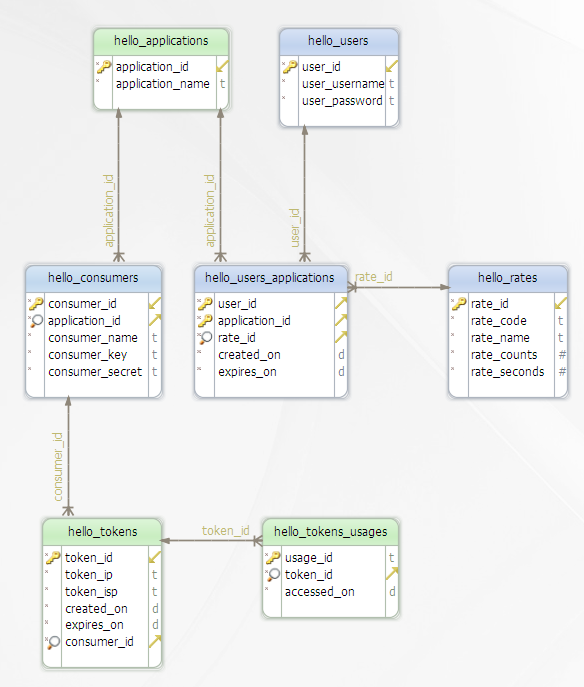
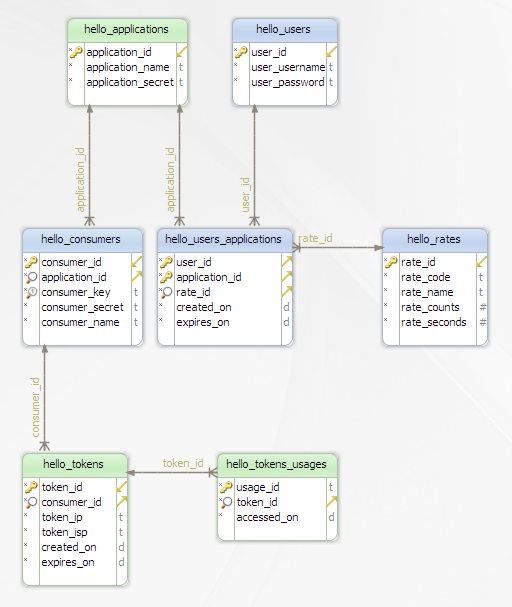
cleanup and docs

Changed region(s): [[0.0312, 0.0297, 1.0, 0.9786]]

diff --git a/src/public_html/index.php b/src/public_html/index.php
@@ -1,6 +1,1 @@
 <?php
-namespace front;
-require_once("../libraries/inc.config.php");
-
-$token = $_POST["token"]??"";
-print_r($_POST); die();

diff --git a/readme.md b/readme.md
@@ -2,14 +2,15 @@
 
 Creates a token for registered API Consumers for first time use.
 
-Required $_POST Parameters:
+Application status: Work in progress; do not clone.
+
+Required `$_POST` Parameters:
 
  * Consumer Key (Software's internal username)
  * Consumer Secret (Software's Internal Password)
 
-## Token Usage management
 
-(Work in progress)
+## Token Usage management
 
  * Create User: `hello user USER_ID`
  * Create Application: `hello application USER_ID APPLICATION_ID`
@@ -21,38 +22,36 @@ Required $_POST Parameters:
 
 ## JSON Output Examples
 
-    curl http://hello.example.com:9090/
-    curl --data "id=ID001&key=KEY001" http://hello.example.com:9090/
+On Success
+
+    curl --data "key=F9961804-61C5-667C-DDD9-B765147630D2&secret=9F522AA0-A59A-A21A-11A3-EBC6C4A847BA" http://hello.example.com:9090/hello.php
+
+Output
+
+    {"status":true,"data":{"token":"8010C186-DD34-A2B3-8D13-8EAFB8549011"}}
 
 
-### From PHP variables only
+On Error
 
-DO NOT use it.
+    curl http://hello.example.com:9090/hello.php
+	
+Output
 
-    {"token_id":"F906C98C-B10E-2F69-E0F5-B1BC99C28DDD","token_ip":"0.0.0.0","token_isp":"ISP Name"}
-
-### From database lookup
-
-DO NOT use it.
-
-    {"token_id":"A3982D83-D3F6-EB30-FE6C-83C23C30971D","token_ip":"127.0.0.1","token_isp":"api.example.com","created_on":"2017-04-27 21:13:58","expires_on":"2017-04-27 21:18:58"}
-
-
-### Minified with DTO
-
-Use it.
-
-    {"status":true,"data":{"id":"E46FC48D-8DB4-6209-ACDE-1107E755B197","ip":"127.0.0.1","isp":"api.example.com","created":"2017-04-28 20:17:51","expires":"2017-04-28 20:22:51"}}
+	{"status":false,"data":{"error":"Not found"}}
 
 
 ## Table Structure
 
     CREATE TABLE `hello_tokens` (
-      `token_id` VARCHAR(255) NOT NULL COMMENT 'Token ID/Code',
-	  `application_id` VARCHAR(255) NOT NULL COMMENT 'Application ID',
-      `token_ip` VARCHAR(255) NOT NULL COMMENT 'Token IP Address',
-      `token_isp` VARCHAR(255) NOT NULL COMMENT 'Token ISP',
-      `created_on` DATETIME NOT NULL COMMENT 'Created On',
-      `expires_on` DATETIME NOT NULL COMMENT 'Validity',
+      `token_id` varchar(255) NOT NULL COMMENT 'Token ID',
+      `consumer_id` varchar(255) NOT NULL COMMENT 'Consumer ID',
+      `token_ip` varchar(255) NOT NULL COMMENT 'Token IP Address',
+      `token_isp` varchar(255) NOT NULL COMMENT 'Token ISP',
+      `created_on` datetime NOT NULL COMMENT 'Created On',
+      `expires_on` datetime NOT NULL COMMENT 'Validity',
       PRIMARY KEY (`token_id`),
+      KEY `consumer_id` (`consumer_id`),
+      CONSTRAINT `hello_tokens_ibfk_1` FOREIGN KEY (`consumer_id`) REFERENCES `hello_consumers` (`consumer_id`) ON DELETE CASCADE ON UPDATE CASCADE
     );
+
+For details, see `database/hello.dmp`

diff --git a/todo.md b/todo.md
@@ -1,0 +1,3 @@
+# ToDo
+
+ * Apply rate limits to generate tokens per minute
